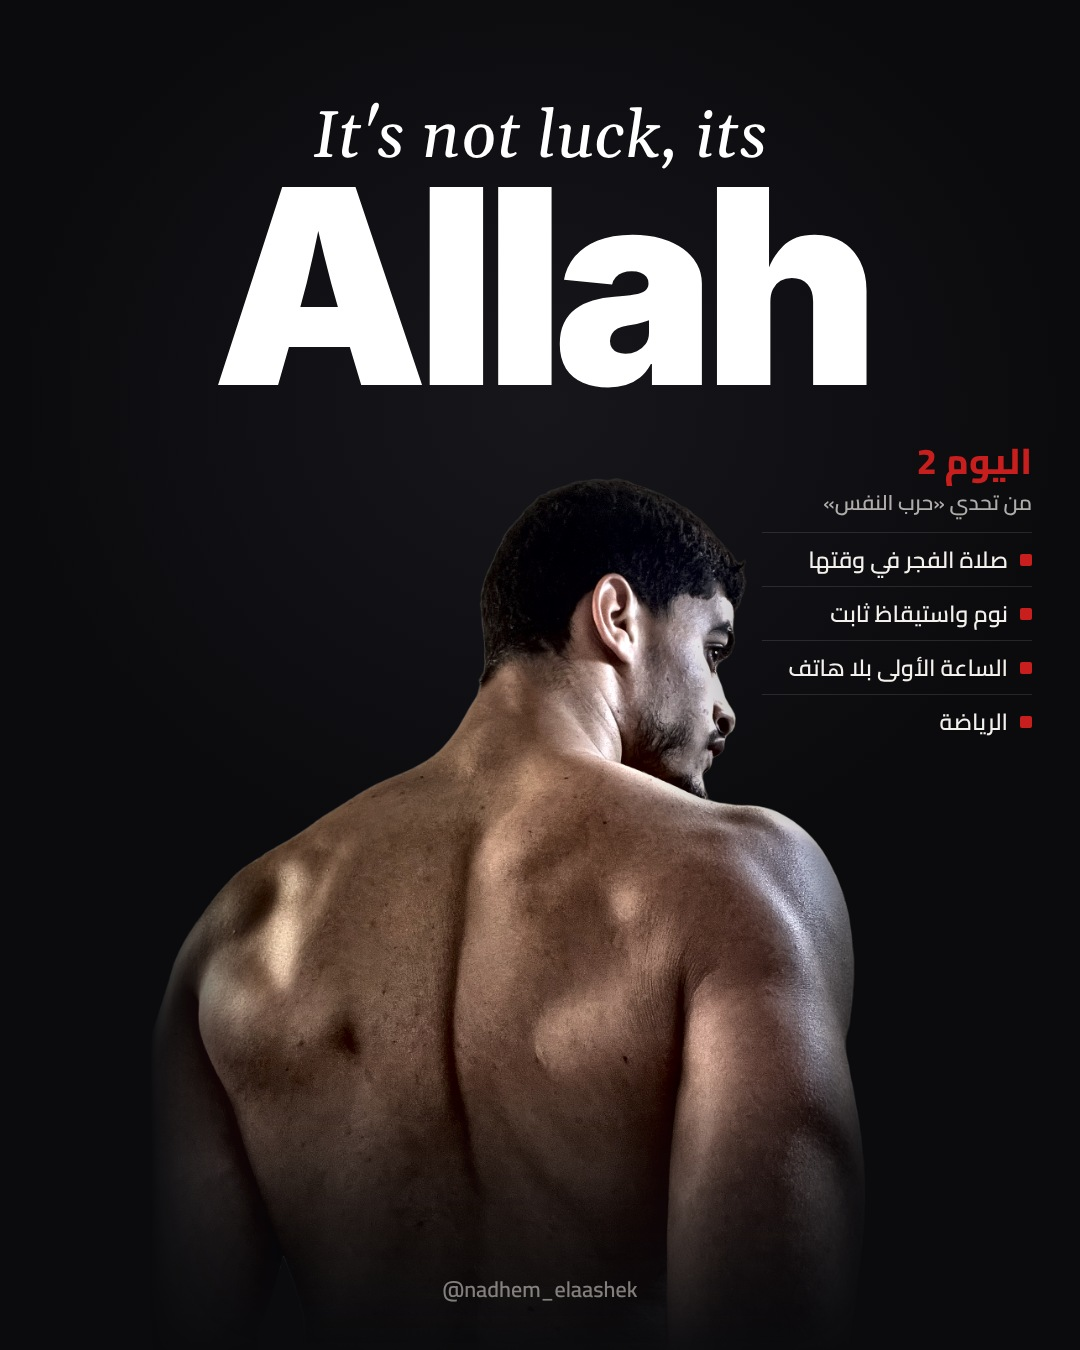
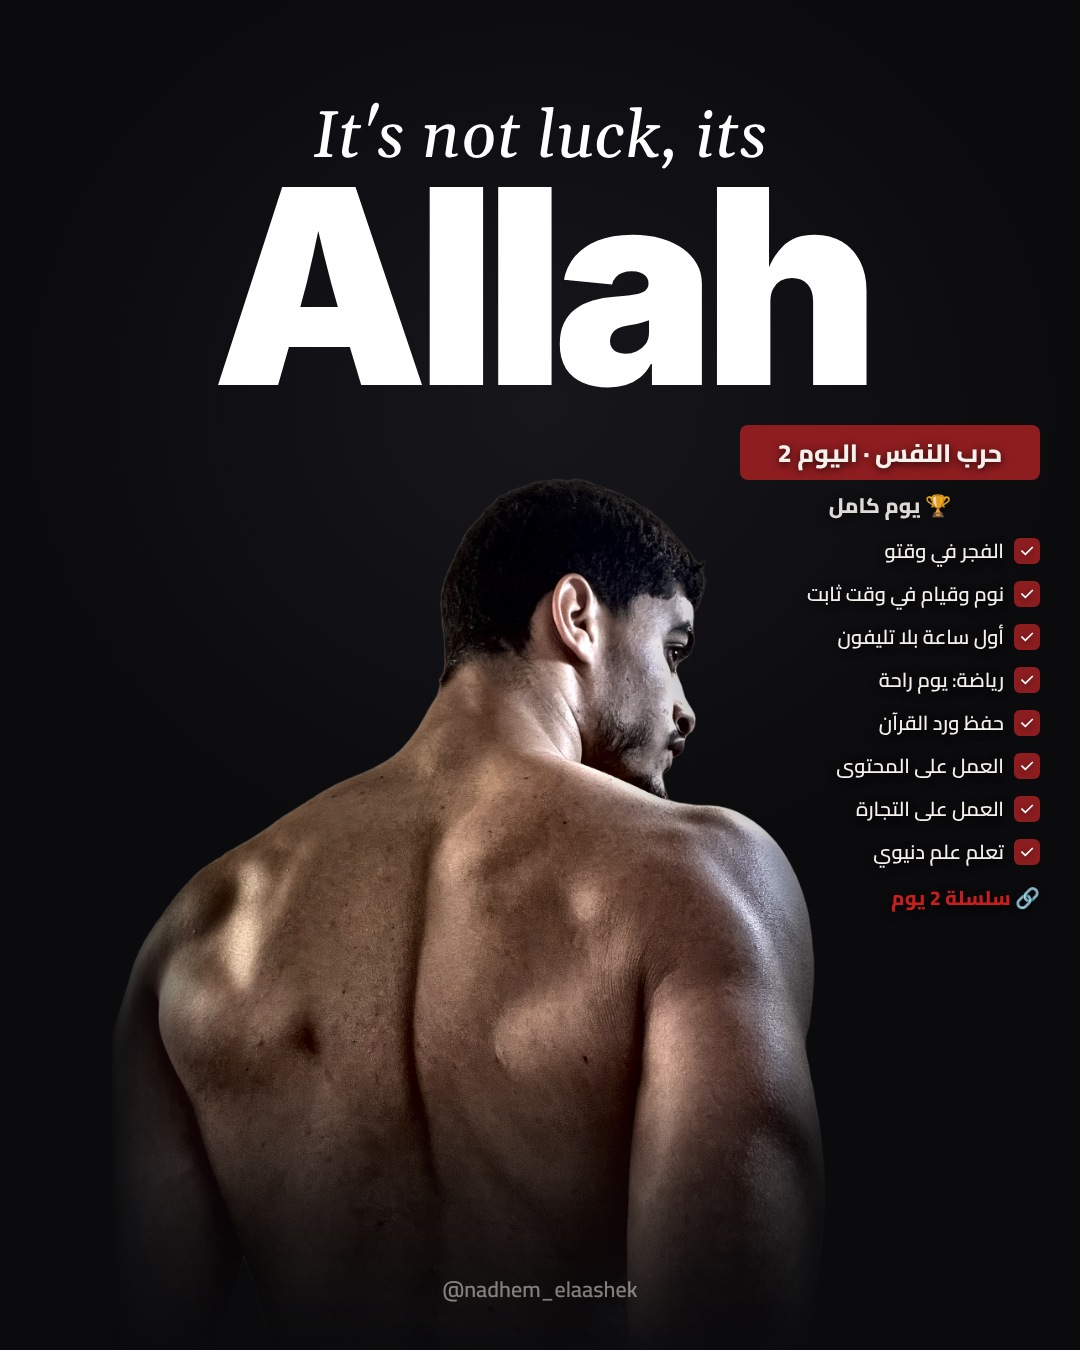
Day-2 post: use Nadhem's real habit checklist
Claude-Session: https://claude.ai/code/session_01Y9GV4DsQ3ZAXSLCKg4vHP2

Changed region(s): [[0.0917, 0.3733, 0.7944, 0.9644], [0.6722, 0.3111, 0.9778, 0.6844]]

diff --git a/posts/tawakkul/index.html b/posts/tawakkul/index.html
@@ -3,7 +3,7 @@
 .b{display:inline-block;background:#C81E1E;color:#fff;text-decoration:none;padding:10px 18px;border-radius:10px;font-weight:700;margin:8px 0 14px;border:0;font-size:16px}
 img{width:100%;max-width:540px;border-radius:8px;display:block}p{color:#B3B3B3;font-size:14px}pre{white-space:pre-wrap;background:#161616;padding:14px;border-radius:10px;font-family:inherit;line-height:1.7}</style></head><body>
 <h1>منشور «لم تكن قوّتي.. بل توكّلي»</h1><p>اضغط مطولا على الصورة ثم «حفظ في الصور».</p>
-<h2>نسخة «It's not luck» · اليوم 2</h2><a href="tawakkul-day2.jpg" download><img src="tawakkul-day2.jpg"></a>
+<h2>نسخة «It's not luck» · اليوم 2</h2><a href="tawakkul-day2.jpg?v=2" download><img src="tawakkul-day2.jpg?v=2"></a>
 <h2>نسخة الظهر (الأقرب للمرجع)</h2><a href="tawakkul-back.jpg" download><img src="tawakkul-back.jpg"></a>
 <h2>نسخة الجنب</h2><a href="tawakkul-side.jpg" download><img src="tawakkul-side.jpg"></a>
 <h2>الكابشن</h2><button class="b" onclick="navigator.clipboard.writeText(document.getElementById('cap').innerText);this.textContent='تم النسخ ✓'">نسخ الكابشن</button><pre id="cap">لم أصل إلى هنا بقوّتي.
